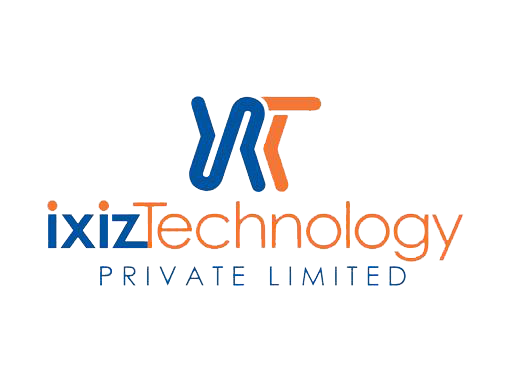
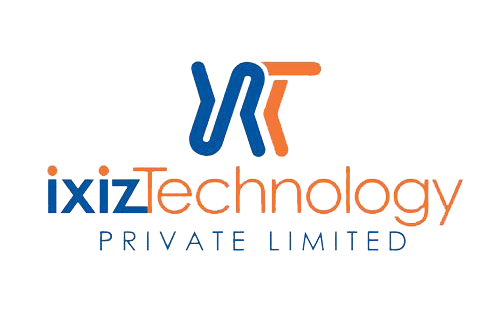
fixed image scaling

Changed region(s): [[0.0916, 0.184, 0.947, 0.7669]]

diff --git a/index2.html b/index2.html
@@ -52,9 +52,6 @@
                 <li>
                     <a href="https://github.com/jjwtan" target="_blank"><i class="fa fa-github"></i></a>
                 </li>
-                <li>
-                    <a href="#" target="_blank"><i class="fa fa-linkedin"></i></a>
-                </li>
             </ul>
         </div>
 
@@ -114,10 +111,10 @@
   </div>
 
   <div class="container section">
-  <div class="col-lg-4 col-lg-offset-2 col-sm-4 col-sm-offset-2 text-right">
-        <img src="images/zetta.png" alt="zettalogo" width="330" height="160">
+  <div class="col-lg-4 col-lg-offset-2 col-md-4 col-md-offset-1 col-sm-4">
+        <img class="img-responsive text" src="images/zetta.png" alt="zettalogo" width="330" height="160">
   </div>
-  <div class="col-lg-4 col-sm-6 text-left">
+  <div class="col-lg-4 col-md-4 col-md-offset-1 col-sm-4 col-sm-offset-2 job-text">
       <a href="http://www.zetta-solution.com/"><strong>Zetta Solution Pte Ltd</strong></a>
       <p>Jun 2015 - Aug 2015</p>
       <p>Software Engineering Intern
@@ -126,10 +123,10 @@
   </div>
 
   <div class="container section">
-  <div class="col-lg-4 col-lg-offset-2 col-sm-4 col-sm-offset-2 text-right">
-        <img src="images/ixiz.png" alt="ixizlogo" width="315" height="230">
+  <div class="col-lg-4 col-lg-offset-2 col-md-4 col-md-offset-1 col-sm-4">
+        <img class="img-responsive" src="images/ixiz.png" alt="ixizlogo" width="315" height="230">
   </div>
-  <div class="col-lg-4 col-sm-6">
+  <div class="col-lg-4 col-md-4 col-md-offset-1 col-sm-4 col-sm-offset-2 job-text">
       <a href="http://ixiz.sg/"><strong>iXiZ Technology Pte Ltd</strong></a>
       <p>Jan 2012 - May 2012</p>
       <p>Technical Support Engineer

diff --git a/css/styles.css b/css/styles.css
@@ -2,6 +2,12 @@
     margin: 0 auto;
 
 }
+.img-responsive {
+    margin: 0 auto;
+}
+.job-text{
+  margin-left: 0px;
+}
 header {
     background-image: url(../images/bg2.jpg);
     background-repeat: none;
@@ -17,7 +23,7 @@ header {
 
 header .intro-text {
     font-family: Montserrat, sans-serif;
-    padding-top: 300px;
+    padding-top: 280px;
     padding-bottom: 150px
 }
 
